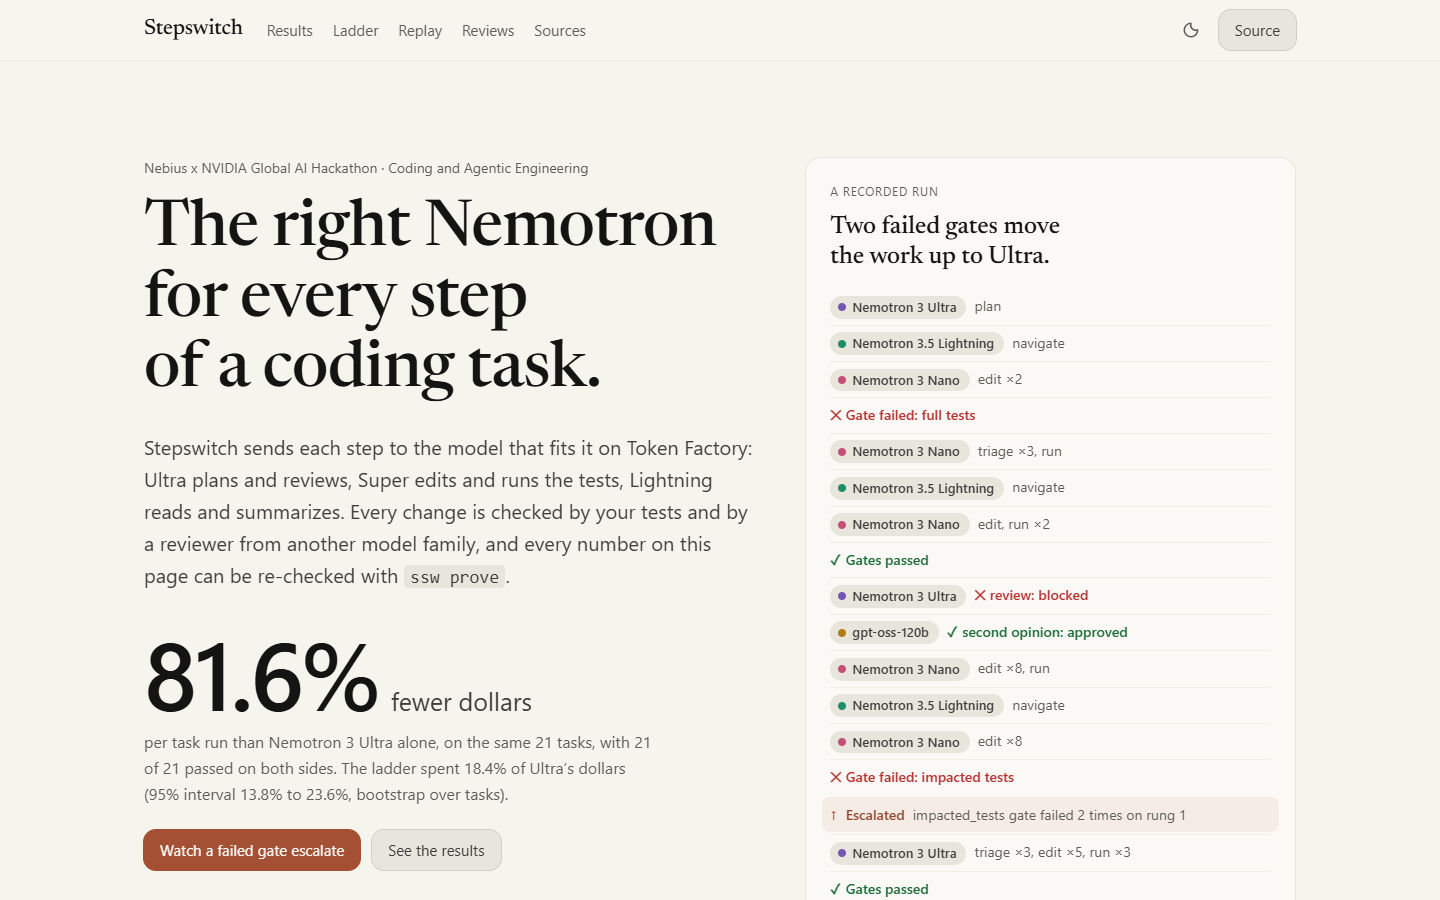
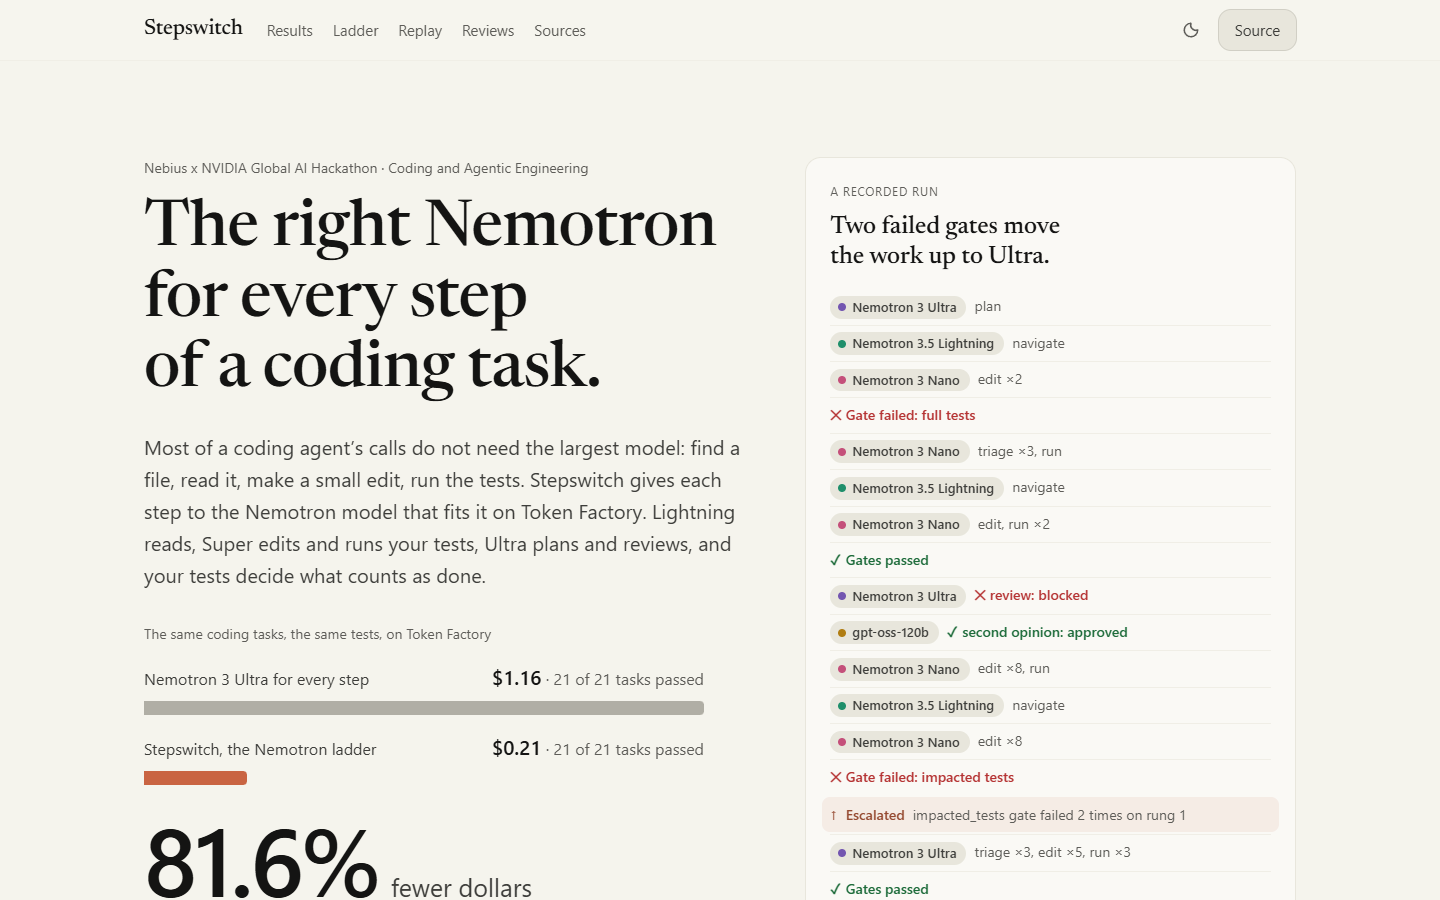
docs(hackathon): lead with the story, Ultra for every step against the ladder
The README's hackathon section, SUBMISSION.md and the demo hero now open
with the same story: 21 tasks on Ultra alone pass for US$ 1.16, and on the
ladder they still pass for US$ 0.21. The replication moves into a "why you
can trust these numbers" section. The demo hero shows both totals as bars
read from the C-029 evidence, and the screenshots are regenerated. No
number or claim changes.

Claude-Session: https://claude.ai/code/session_013J8H7ZX7zYvBo2CNXjMRHP

Changed region(s): [[0.0938, 0.6844, 0.5, 1.0], [0.0938, 0.4667, 0.5312, 0.6533]]

diff --git a/hackathon/demo/site/app.js b/hackathon/demo/site/app.js
@@ -306,11 +306,22 @@ function renderHeadline(data) {
   evidence = comparison;
   const share = comparison.cost_share;
   const r = comparison.results;
+  const most = Math.max(r.single.cost_usd, r.ladder.cost_usd);
+  $("#hero-bars").replaceChildren(...[
+    ["single", "Nemotron 3 Ultra for every step", "is-single"],
+    ["ladder", "Stepswitch, the Nemotron ladder", "is-ladder"],
+  ].map(([side, who, css]) => el("div", { class: `hero-bar ${css}` },
+    el("p", { class: "hero-bar-who" }, who),
+    el("div", { class: "hero-bar-track", "aria-hidden": "true" },
+      el("span", { class: "hero-bar-fill", style: `width: ${(100 * r[side].cost_usd / most).toFixed(1)}%` })),
+    el("p", { class: "hero-bar-value" },
+      el("strong", {}, usd(r[side].cost_usd, 2)),
+      ` · ${r[side].passed} of ${r[side].runs} tasks passed`))));
   $("#hero-saving").textContent = `${share.saving_percent.toFixed(1)}%`;
-  $("#hero-caption").textContent = `per task run than Nemotron 3 Ultra alone, on the same ${comparison.tasks} tasks, `
-    + `with ${r.ladder.passed} of ${r.ladder.runs} passed on both sides. The ladder spent ${share.percent.toFixed(1)}% of Ultra’s dollars `
+  $("#hero-caption").textContent = `per task run than Nemotron 3 Ultra alone, on the same ${comparison.tasks} tasks. `
+    + `The ladder spent ${share.percent.toFixed(1)}% of Ultra’s dollars `
     + `(${Math.round(share.interval.confidence * 100)}% interval ${share.interval.low.toFixed(1)}% to ${share.interval.high.toFixed(1)}%, `
-    + `bootstrap over tasks).`;
+    + `bootstrap over tasks). Totals for all ${r.ladder.runs} task runs, at list prices.`;
   $("#kpis").replaceChildren(
     kpi("Tasks passed", `${r.ladder.passed} / ${r.ladder.runs}`, `Ultra alone: ${r.single.passed} / ${r.single.runs}`),
     kpi("Dollars per task run", usd(r.ladder.cost_per_task_usd), `Ultra alone: ${usd(r.single.cost_per_task_usd)}`),
@@ -344,7 +355,7 @@ function renderReplication(data) {
     `A second pair of runs, registered before it started as claim C-032: the ladder passed `
       + `${r.ladder.passed} of ${r.ladder.runs} task runs and Ultra alone ${r.single.passed} of ${r.single.runs}; `
       + `the ladder spent ${share.percent.toFixed(1)}% of Ultra’s dollars (interval ${share.interval.low.toFixed(1)}% `
-      + `to ${share.interval.high.toFixed(1)}%). The interval passed the ${bound}% registered in advance, so that claim is `,
+      + `to ${share.interval.high.toFixed(1)}%). That interval went above the ${bound}% bound registered in advance, so that claim is `,
     el("a", { href: "https://github.com/sarthak-1111/stepswitch-nemotron/blob/hackathon/docs/decisions/0048-c032-withdrawn.md" }, "withdrawn"),
     ".",
   );

diff --git a/hackathon/demo/site/index.html b/hackathon/demo/site/index.html
@@ -45,14 +45,16 @@
   <div class="hero-text">
     <p class="eyebrow">Nebius x NVIDIA Global AI Hackathon · Coding and Agentic Engineering</p>
     <h1>The right Nemotron for every step of a coding task.</h1>
-    <p class="lead">Stepswitch sends each step to the model that fits it on Token Factory: Ultra
-      plans and reviews, Super edits and runs the tests, Lightning reads and summarizes. Every
-      change is checked by your tests and by a reviewer from another model family, and every
-      number on this page can be re-checked with <code translate="no">ssw prove</code>.</p>
-    <div class="hero-figure" aria-live="polite">
+    <p class="lead">Most of a coding agent’s calls do not need the largest model: find a file,
+      read it, make a small edit, run the tests. Stepswitch gives each step to the Nemotron model
+      that fits it on Token Factory. Lightning reads, Super edits and runs your tests, Ultra plans
+      and reviews, and your tests decide what counts as done.</p>
+    <figure class="hero-figure" aria-labelledby="hero-figure-h">
+      <figcaption id="hero-figure-h" class="figure-head">The same coding tasks, the same tests, on Token Factory</figcaption>
+      <div id="hero-bars" class="hero-bars"></div>
       <p class="figure-value"><span id="hero-saving">–</span><span class="figure-unit">fewer dollars</span></p>
       <p id="hero-caption" class="figure-caption">per task run than Nemotron 3 Ultra alone, on the same tasks.</p>
-    </div>
+    </figure>
     <div class="hero-actions">
       <a class="btn btn-accent" href="#replay" id="hero-escalation">Watch a failed gate escalate</a>
       <a class="btn btn-sand" href="#results">See the results</a>

diff --git a/hackathon/demo/site/style.css b/hackathon/demo/site/style.css
@@ -222,6 +222,16 @@ select { background: var(--surface); color: var(--fg); box-shadow: 0 0 0 1px var
 .hero { padding: var(--section-y-desktop) 0 var(--section-y-tablet); border-bottom: 1px solid var(--border-soft); }
 .lead { font-size: var(--text-lg); color: var(--fg-2); max-width: 62ch; }
 .hero-figure { margin: var(--space-8) 0 var(--space-6); }
+.figure-head { font-size: var(--text-sm); color: var(--muted); margin: 0 0 var(--space-4); }
+.hero-bars { display: grid; gap: var(--space-4); margin: 0 0 var(--space-6); max-width: 560px; }
+.hero-bar { display: grid; grid-template-columns: minmax(0, 1fr) auto; column-gap: var(--space-4); row-gap: var(--space-2); align-items: baseline; }
+.hero-bar-who { margin: 0; color: var(--fg-2); }
+.hero-bar-value { grid-column: 2; grid-row: 1; margin: 0; color: var(--muted); font-variant-numeric: tabular-nums; white-space: nowrap; }
+.hero-bar-value strong { color: var(--fg); font-size: var(--text-lg); font-weight: 600; }
+.hero-bar-track { grid-column: 1 / -1; height: 14px; }
+.hero-bar-fill { display: block; height: 100%; min-width: 4px; border-radius: 0 4px 4px 0; background: var(--bar, var(--s-single)); }
+.hero-bar.is-ladder { --bar: var(--accent); }
+@media (max-width: 480px) { .hero-bar { grid-template-columns: minmax(0, 1fr); } .hero-bar-value { grid-column: auto; grid-row: auto; white-space: normal; } }
 .figure-value { display: flex; flex-wrap: wrap; align-items: baseline; gap: var(--space-3); margin: 0; font-family: var(--font-body); }
 #hero-saving { font-size: clamp(56px, 10vw, 96px); font-weight: 600; letter-spacing: -0.03em; line-height: 1; color: var(--fg); }
 .figure-unit { font-size: var(--text-xl); color: var(--fg-2); }

diff --git a/hackathon/SUBMISSION.md b/hackathon/SUBMISSION.md
@@ -1,7 +1,7 @@
 # Stepswitch
 
-**Each step of a coding task on the right Nemotron model, checked by your tests and a reviewer
-from another model family, with every claim re-runnable.**
+**The right Nemotron for every step of a coding task: small models where a slip costs little,
+Ultra where a wrong call costs the task, and your tests deciding what counts as done.**
 
 - Track: **Coding and Agentic Engineering**
 - Repository: https://github.com/sarthak-1111/stepswitch-nemotron (MIT)
@@ -9,20 +9,35 @@ from another model family, with every claim re-runnable.**
 - Video: link added at upload
 - Feedback on Token Factory, Sandboxes and Nemotron: [FEEDBACK.md](FEEDBACK.md)
 
-Stepswitch sends each step of a coding task to the right Nemotron model on Token Factory,
-verifies every change with your tests and a reviewer from another model family, and makes every
-claim re-runnable with `ssw prove`.
+## The story in 30 seconds
+
+Give a coding agent 21 small tasks (bug fixes, small features, refactors, a little numerical
+code) and run every step on Nemotron 3 Ultra, the largest Nemotron model. All 21 pass, for
+**US$ 1.16**. Yet most of those calls do not need the largest model: find a file, read it, write
+a small edit, run the tests.
+
+Stepswitch gives each step to the Nemotron model that fits it on Token Factory. Lightning finds
+and reads the files, Super writes the code and runs your tests, Ultra plans and reviews, and
+`gpt-oss-120b` gives a second opinion. Ultra makes 42 of the 261 calls, and all 21 tasks still
+pass, for **US$ 0.21**: 81.6% fewer dollars. When a smaller model's change fails your tests twice, Ultra takes the task over; the
+demo replays a run where that happened. And each number here can be re-checked with one
+command, without an API key, because each is backed by a claim with a test.
+
+**Who it is for:** developers and teams who run coding agents and pay by the token, and want the
+large model's judgement where it matters without paying the large model's price for every step.
 
 ## The numbers
 
 On the two mini bench suites (21 tasks: small bug fixes, features, refactors and numerical tasks
 in Python), the Nemotron ladder and Nemotron 3 Ultra alone ran interleaved on Token Factory, one
-task run per task, with the same gates. From the evidence of claim C-029
+task run per task, with the same checks (format, lint, the project's tests, numerical golden
+checks for the science tasks). From the evidence of claim C-029
 ([claims/evidence/C-029.json](../claims/evidence/C-029.json)):
 
 | | Nemotron ladder | `Nemotron-3-Ultra-550b-a55b` alone |
 |---|---:|---:|
 | Task runs passed | 21 of 21 | 21 of 21 |
+| US dollars for all 21 task runs | 0.21 | 1.16 |
 | US dollars per task run | 0.0101 | 0.0551 |
 | Tokens per task run, cached included | 47,156 | 53,067 |
 | Uncached tokens per task run | 22,878 | 50,787 |
@@ -30,28 +45,37 @@ task run per task, with the same gates. From the evidence of claim C-029
 | Escalations | 0 | 0 |
 
 - The ladder spent 81.6% fewer dollars per task run. Its share of Ultra's dollars was 18.4%,
-  with a 95% cluster-bootstrap interval over tasks of 13.8% to 23.6%.
+  with a 95% interval over tasks (cluster bootstrap) of 13.8% to 23.6%.
 - Per suite: general 0.0106 against 0.0522 dollars per task run, science 0.0089 against 0.0626.
-- **Replicated, with a caveat.** A second pair of runs on a later commit, registered and pushed
-  as claim C-032 before its first task run (ADR 0047), again passed 21 of 21 task runs on both
-  sides, and the ladder's dollars came to 18.0% of Ultra's (18.4% above). Its 95% interval
-  reached 27.7%, above the 25% registered in advance: on one task Super's edit replies stopped
-  at the output cap four times. So C-032 is withdrawn (ADR 0048) and "under a quarter" holds
-  on the runs above only; both pairs put the ladder at about 18% of Ultra's dollars.
 - Where the ladder's dollars went: Super 80.0% (151 calls), Ultra 16.0% (42 calls), Lightning
   2.8% (47 calls), the second reviewer 1.2% (21 calls).
 - Reviews (claim C-030): `gpt-oss-120b` agreed with Ultra's verdict on 20 of the 21 changes
   both reviewed. Every reviewed change had already passed its tests (reviews run after the
-  gates), so this is agreement on passing changes.
+  checks), so this is agreement on passing changes.
 - The ladder took a little longer per task run than Ultra alone (0.75 against 0.68 minutes).
+
+## Why you can trust these numbers
+
+- **Each one has a test.** Every number in the README is rendered from the evidence of a claim
+  in `claims/claims.yaml`; a number typed by hand fails CI. `uv run ssw prove --claim C-029
+  --claim C-030` re-checks these from the recorded runs, with no key and nothing billed, and
+  CI re-runs the claim tests on Linux, macOS and Windows on every push.
+- **Each run is published,** failed and calibration runs included, with a record of every
+  step, and so is the whole bill (below).
+- **We tried to break our own result.** A second pair of runs on a later commit, registered and
+  pushed as claim C-032 before its first task run (ADR 0047), again passed 21 of 21 task runs on
+  both sides, and the ladder's dollars came to 18.0% of Ultra's (18.4% above). Its 95% interval
+  reached 27.7%, above the 25% we had set in advance: on one task Super's edit replies stopped
+  at the output cap four times. So C-032 is withdrawn (ADR 0048), and "under a quarter" holds
+  on the runs above only. Both pairs put the ladder at about 18% of Ultra's dollars.
 
 ## Inspiration
 
-A coding agent makes dozens of model calls per task, and most of them are small: find a file,
-read it, condense a test log. Agents still send every call to one model, usually the largest, and
-report a pass rate without the bill. We wanted an agent that picks the model per step, proves
-the change with the project's own tests, has the change checked by a second model family, and
-publishes only numbers that anyone can re-run.
+A coding agent makes dozens of model calls per task, and most of them are routine: find a file,
+read it, condense a test log, make a small edit. Agents still send every call to one model,
+usually the largest, and report a pass rate without the bill. We wanted an agent that picks the
+model per step, proves the change with the project's own tests, has the change checked by a
+second model family, and publishes only numbers that anyone can re-run.
 
 ## What it does
 
@@ -63,10 +87,11 @@ publishes only numbers that anyone can re-run.
   - `nvidia/Nemotron-3-Ultra-550b-a55b` plans, reviews, and takes the work over when the gates
     fail twice on Super;
   - `openai/gpt-oss-120b` gives a second opinion on each of Ultra's reviews.
-- **Gates.** After a change, the project's format, lint, type and test gates run (impacted tests
-  first, then the full suite; science projects add numerical golden checks and protected
-  constants). A change that fails goes back with the failure report; after two failures on one
-  model, the task escalates up the ladder.
+- **Your tests decide what counts as done.** After a change, the project's own checks run, which
+  we call gates: format, lint, types and tests (impacted tests first, then the full suite;
+  science projects add numerical golden checks and protected constants). A change that fails
+  goes back with the failure report; after two failures on one model, the task escalates up the
+  ladder.
 - **Dollars as a first-class budget.** Prices per model come from Token Factory's model list
   (`GET /v1/models?verbose=true`, which includes pricing). The ledger records each call's model,
   tokens, cached tokens and dollars; `--budget-usd` stops a task at a dollar cap and

diff --git a/README.md b/README.md
@@ -5,16 +5,28 @@
 <!-- hackathon:start -->
 ## Built for the Nebius x NVIDIA Global AI Hackathon
 
-Stepswitch sends each step of a coding task to the right Nemotron model on Token Factory,
-verifies every change with your tests and a reviewer from another model family, and makes every
-claim re-runnable with `ssw prove`.
+**Give a coding agent <!-- num:C-029:sections.comparison.tasks -->21<!-- /num --> small tasks**
+(bug fixes, small features, refactors, a little numerical code) **and run each step on Nemotron
+Ultra, the largest Nemotron model: all
+<!-- num:C-029:sections.comparison.results.single.passed -->21<!-- /num --> pass, for US$
+<!-- num:C-029:sections.comparison.results.single.cost_usd -->1.16<!-- /num -->.** Yet most of
+those calls do not need the largest model: find a file, read it, write a small edit, run the
+tests.
 
-- **Demo:** [replays of the recorded Token Factory runs](https://sarthak-1111.github.io/stepswitch-nemotron/),
-  step by step: the model of each step, its tokens and dollars, the gates and the reviews.
+**Stepswitch gives each step to the Nemotron model that fits it** on Token Factory. Lightning
+finds and reads the files, Super writes the code and runs your tests, Ultra plans and reviews,
+and a model from another family gives a second opinion. **All
+<!-- num:C-029:sections.comparison.results.ladder.passed -->21<!-- /num --> still pass, for US$
+<!-- num:C-029:sections.comparison.results.ladder.cost_usd -->0.21<!-- /num -->.** When a smaller
+model's change fails your tests twice, Ultra takes the task over. And you can re-check each of
+these numbers with one command, without an API key.
+
+- **Watch:** the video (link added at submission).
+- **See it:** [replays of the recorded runs](https://sarthak-1111.github.io/stepswitch-nemotron/),
+  step by step: which model took each step, what it cost, the tests and the reviews.
   Read-only, no login.
-- **Video:** link added at submission.
-- **Submission:** [hackathon/SUBMISSION.md](hackathon/SUBMISSION.md). **Feedback on Token
-  Factory, Sandboxes and Nemotron, with measurements:** [hackathon/FEEDBACK.md](hackathon/FEEDBACK.md).
+- **Read:** [the submission](hackathon/SUBMISSION.md), and [our feedback on Token Factory,
+  Sandboxes and Nemotron, with measurements](hackathon/FEEDBACK.md).
 
 ### The Nemotron ladder
 
@@ -56,11 +68,6 @@ Evidence: [C-029](claims/evidence/C-029.json).
   <!-- num:C-029:sections.comparison.cost_share.interval.low -->13.8<!-- /num --> % and
   <!-- num:C-029:sections.comparison.cost_share.interval.high -->23.6<!-- /num --> %.
   It also sent fewer uncached tokens: Super and Lightning hit the prompt cache, Ultra rarely did.
-- **Replication:** a second pair of runs, registered before it started as claim C-032, again
-  passed every task run on both sides at a similar share of Ultra's dollars, but its interval
-  reached past the registered bound: on one task Super's output was cut off at the cap again
-  and again. C-032 is withdrawn ([why](docs/decisions/0048-c032-withdrawn.md)), and the
-  interval above holds for C-029's runs only.
 - **Reviews:** `gpt-oss-120b` agreed with Ultra's verdict on
   <!-- num:C-030:sections.steps.reviews.agreeing -->20<!-- /num --> of the
   <!-- num:C-030:sections.steps.reviews.changes -->21<!-- /num --> changes both reviewed (claim
@@ -68,6 +75,20 @@ Evidence: [C-029](claims/evidence/C-029.json).
   concern, the second reviewer approved it, and Super revised it.
 - **Time:** the ladder took a little longer per task run than Ultra alone, and no task needed an
   escalation: Super's changes passed the gates within its two attempts each time.
+
+### Why you can trust these numbers
+
+- **Each one has a test.** The numbers in this section are rendered from the evidence of claims
+  C-029 and C-030, and `uv run ssw prove --claim C-029 --claim C-030` re-checks them from the
+  recorded runs, with no key and nothing billed. A README number typed by hand fails CI.
+- **Each run is published,** with a record of its steps: pilots, a crashed run and calibration
+  runs included, in [bench/results](bench/results/).
+- **We tried to break our own result.** A second pair of runs, registered before it started as
+  claim C-032, again passed each task run on both sides at a similar share of Ultra's dollars,
+  but its interval reached past the bound we had set in advance: on one task Super's output was
+  cut off at the cap again and again. So C-032 is withdrawn
+  ([why](docs/decisions/0048-c032-withdrawn.md)), and the interval above holds for C-029's runs
+  only.
 - **The bill:** every hosted bench run of this submission, pilots, a crashed run, the
   small-model runs, the escalation demos and both replication attempts included, cost US$
   <!-- num:C-029:sections.comparison.bill.total_usd -->5.48<!-- /num --> by Stepswitch's ledger
